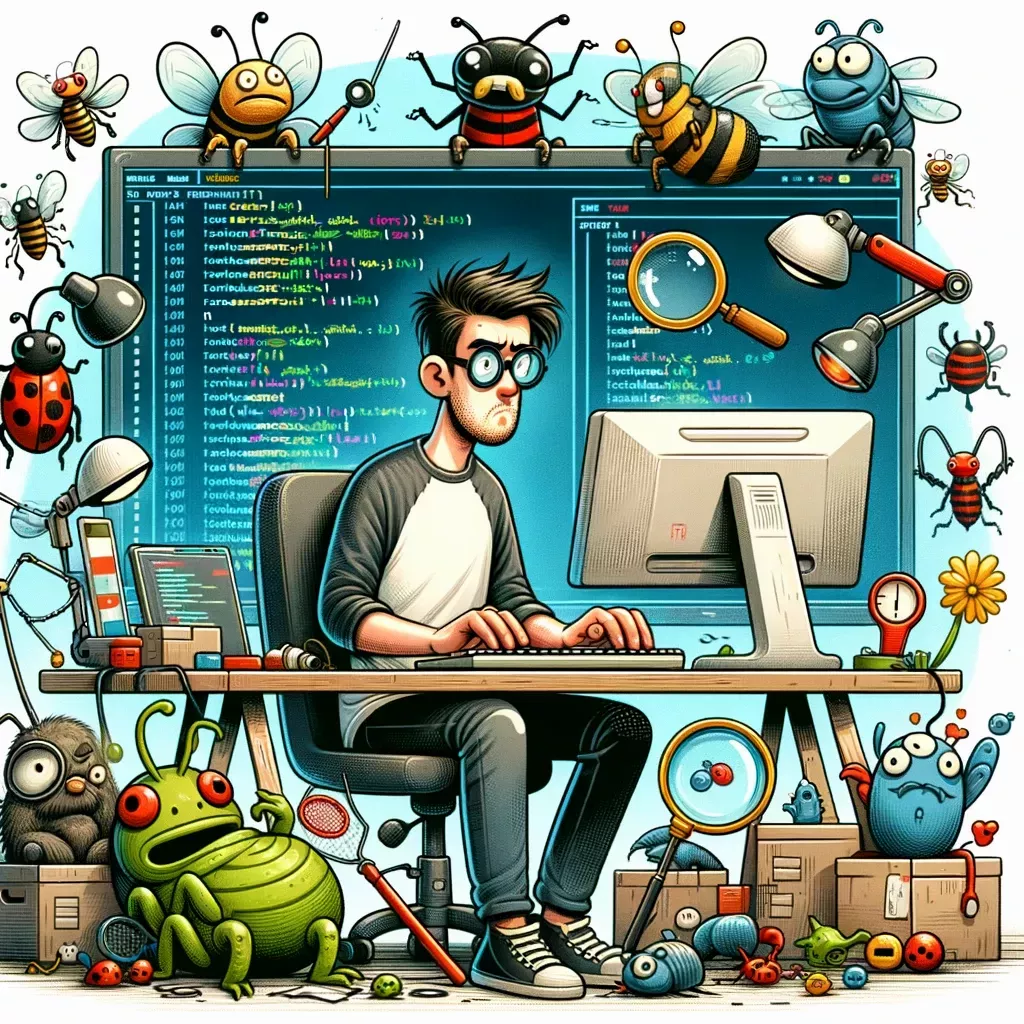
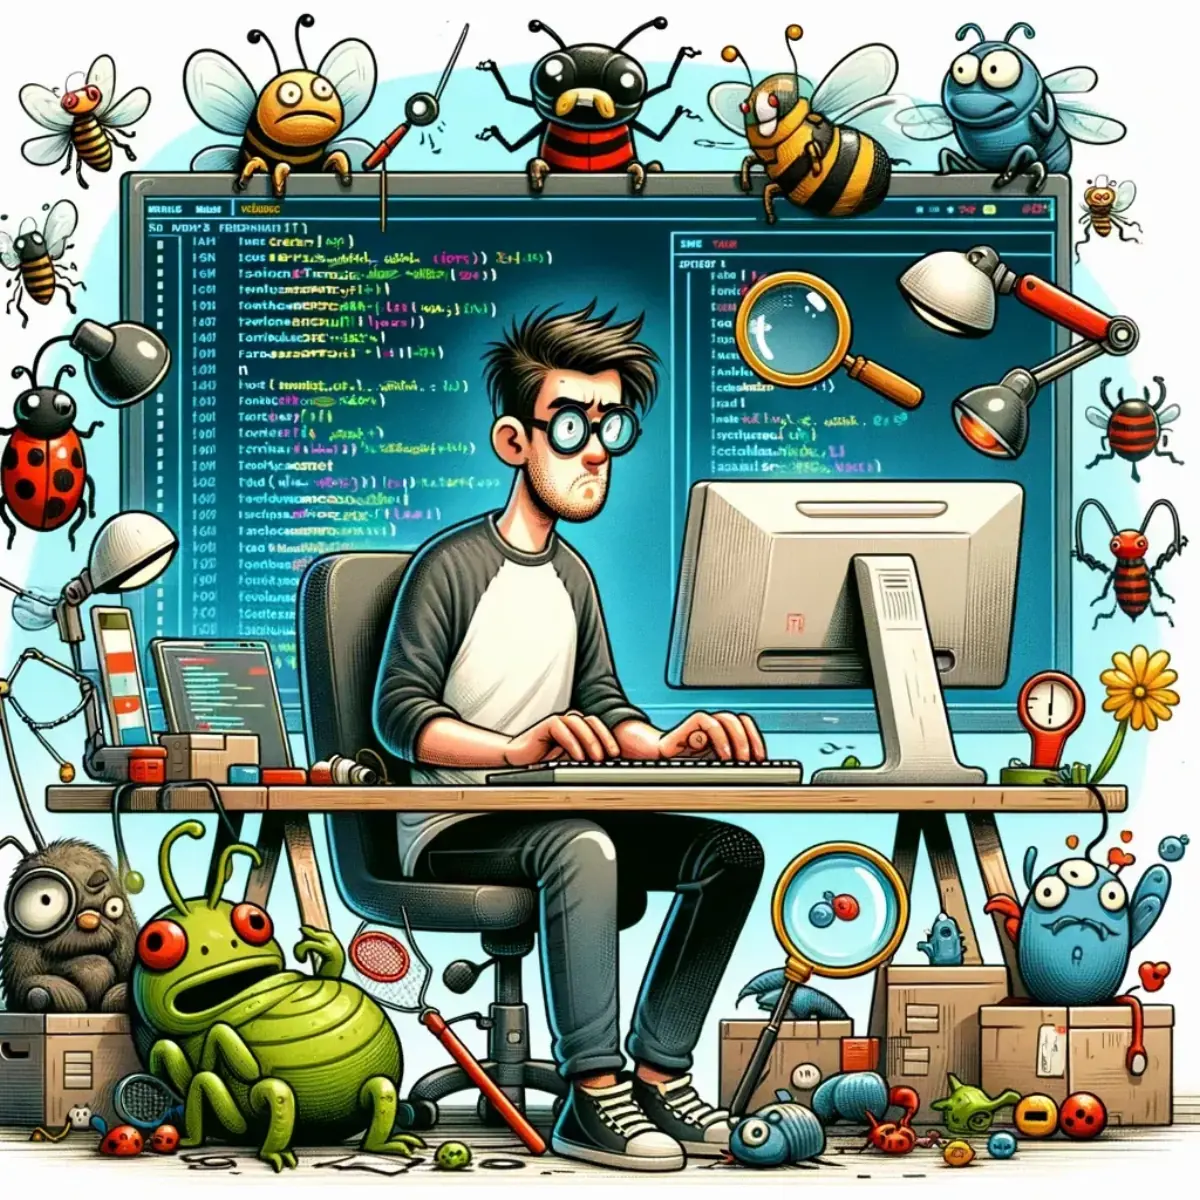
+sentry + performance

diff --git a/_includes/sentry.html b/_includes/sentry.html
@@ -1,0 +1,20 @@
+{% if site.sentry_loader_id and site.sentry_loader_id != "YOUR_LOADER_ID_HERE" %}
+<!-- Sentry (errors + performance + replay) -->
+<script src="https://js.sentry-cdn.com/{{ site.sentry_loader_id }}.min.js" crossorigin="anonymous"></script>
+<script>
+  Sentry.onLoad(function () {
+    Sentry.init({
+      integrations: [
+        Sentry.browserTracingIntegration(),
+        Sentry.replayIntegration({
+          maskAllText: false,
+          blockAllMedia: false,
+        }),
+      ],
+      tracesSampleRate: 1.0,
+      replaysSessionSampleRate: 0.1,
+      replaysOnErrorSampleRate: 1.0,
+    });
+  });
+</script>
+{% endif %}

diff --git a/_layouts/home.html b/_layouts/home.html
@@ -33,9 +33,17 @@ layout: default
         <div class="post-list">
           {% for post in site.posts limit : 5 %}
           {% assign card_image = post.background | default: '/img/posts/1.webp' %}
+          {% assign card_image_sm = card_image | replace: '/img/posts/', '/img/posts/sm/' %}
           <article class="post-card">
             <a class="post-card__media" href="{{ post.url | prepend: site.baseurl | replace: '//', '/' }}" aria-label="{{ post.title | escape }}">
+              {% if card_image contains '/img/posts/' %}
+              <img src="{{ card_image | prepend: site.baseurl | replace: '//', '/' }}"
+                   srcset="{{ card_image_sm | prepend: site.baseurl | replace: '//', '/' }} 768w, {{ card_image | prepend: site.baseurl | replace: '//', '/' }} 1600w"
+                   sizes="(max-width: 640px) 100vw, 220px"
+                   alt="" loading="lazy" width="1600" height="1067" decoding="async">
+              {% else %}
               <img src="{{ card_image | prepend: site.baseurl | replace: '//', '/' }}" alt="" loading="lazy" width="1600" height="1067" decoding="async">
+              {% endif %}
             </a>
             <div class="post-card__body">
               <h2 class="post-card__title">

diff --git a/_includes/head.html b/_includes/head.html
@@ -2,6 +2,7 @@
 <meta name="viewport" content="width=device-width, initial-scale=1, shrink-to-fit=no">
 {% favicon %}
 {% seo %}
+{% include sentry.html %}
 <script>
   // No-flash dark mode: applies the saved theme before paint.
   (function () {